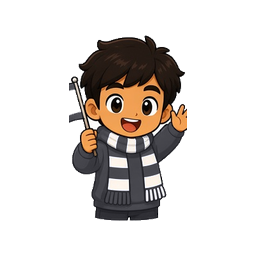
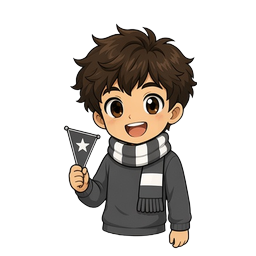
Redesign fan-grey Lv1–5 with clear gimmick progression
Lv1 small pennant, Lv2 scarf, Lv3 beanie, Lv4 jersey, Lv5 large flag.
Keeps blue/red fans unchanged until grey is approved.

Changed region(s): [[0.25, 0.0938, 0.7812, 0.9688]]

diff --git a/unit-icons-agent/docs/fan-progression/README.md b/unit-icons-agent/docs/fan-progression/README.md
@@ -1,0 +1,14 @@
+# Fan Upgrade-Progression (Gimmicks)
+
+Ziel: Stufen 1–5 müssen auf einen Blick unterscheidbar sein — jedes Level addiert ein klares Fan-Gimmick.
+
+| Level | Neu dazu | Gesamt |
+| --- | --- | --- |
+| 1 | normales Outfit + kleines Fähnchen | Fähnchen |
+| 2 | Schal | Fähnchen + Schal |
+| 3 | Mütze | Fähnchen + Schal + Mütze |
+| 4 | Trikot (statt Pullover) | Fähnchen + Schal + Mütze + Trikot |
+| 5 | große Fahne | alles + große Fahne |
+
+Aktuell neu: **grau** (`fan-grey-1.png` … `fan-grey-5.png`).
+Blau/Rot folgen per Farbübertragung, sobald Grau freigegeben ist.

diff --git a/unit-icons-agent/bot/skills/show-cutout-units.md b/unit-icons-agent/bot/skills/show-cutout-units.md
@@ -15,6 +15,18 @@ Alle abgelegten Personen-Icons zeigen, die als freigeschnittene RGBA-PNGs in **G
 
 Farben: `grey` (Grau), `blue` (Blau), `red` (Rot). Erwartung: **4 × 3 × 5 = 60** Dateien.
 
+## Fan-Progression (Gimmicks)
+
+Stufen müssen additiv unterscheidbar sein:
+
+1. normales Outfit + kleines Fähnchen  
+2. + Schal  
+3. + Mütze  
+4. + Trikot  
+5. + große Fahne  
+
+Siehe `docs/fan-progression/README.md`.
+
 ## Ablauf
 
 1. `list_cutout_unit_icons` — Inventar aus `assets/units/` (+ ggf. `game/public/icons/units/`).
